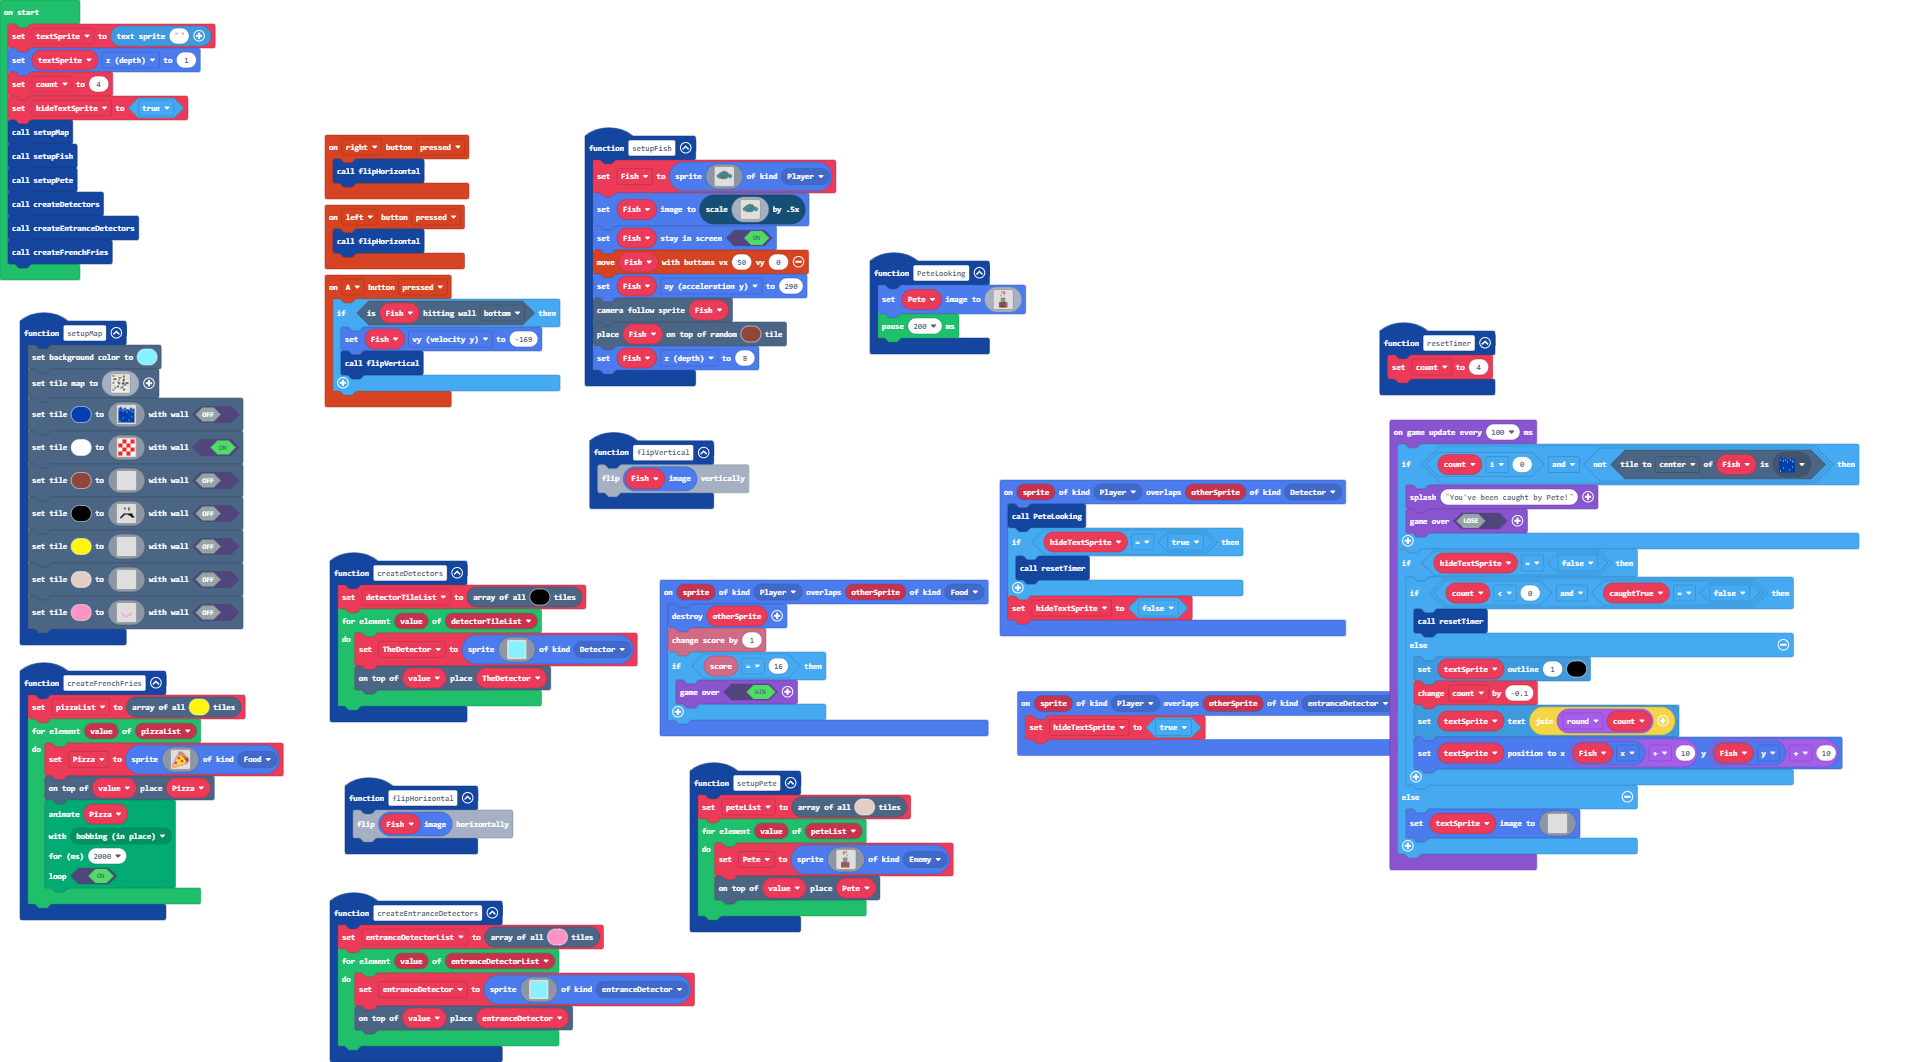
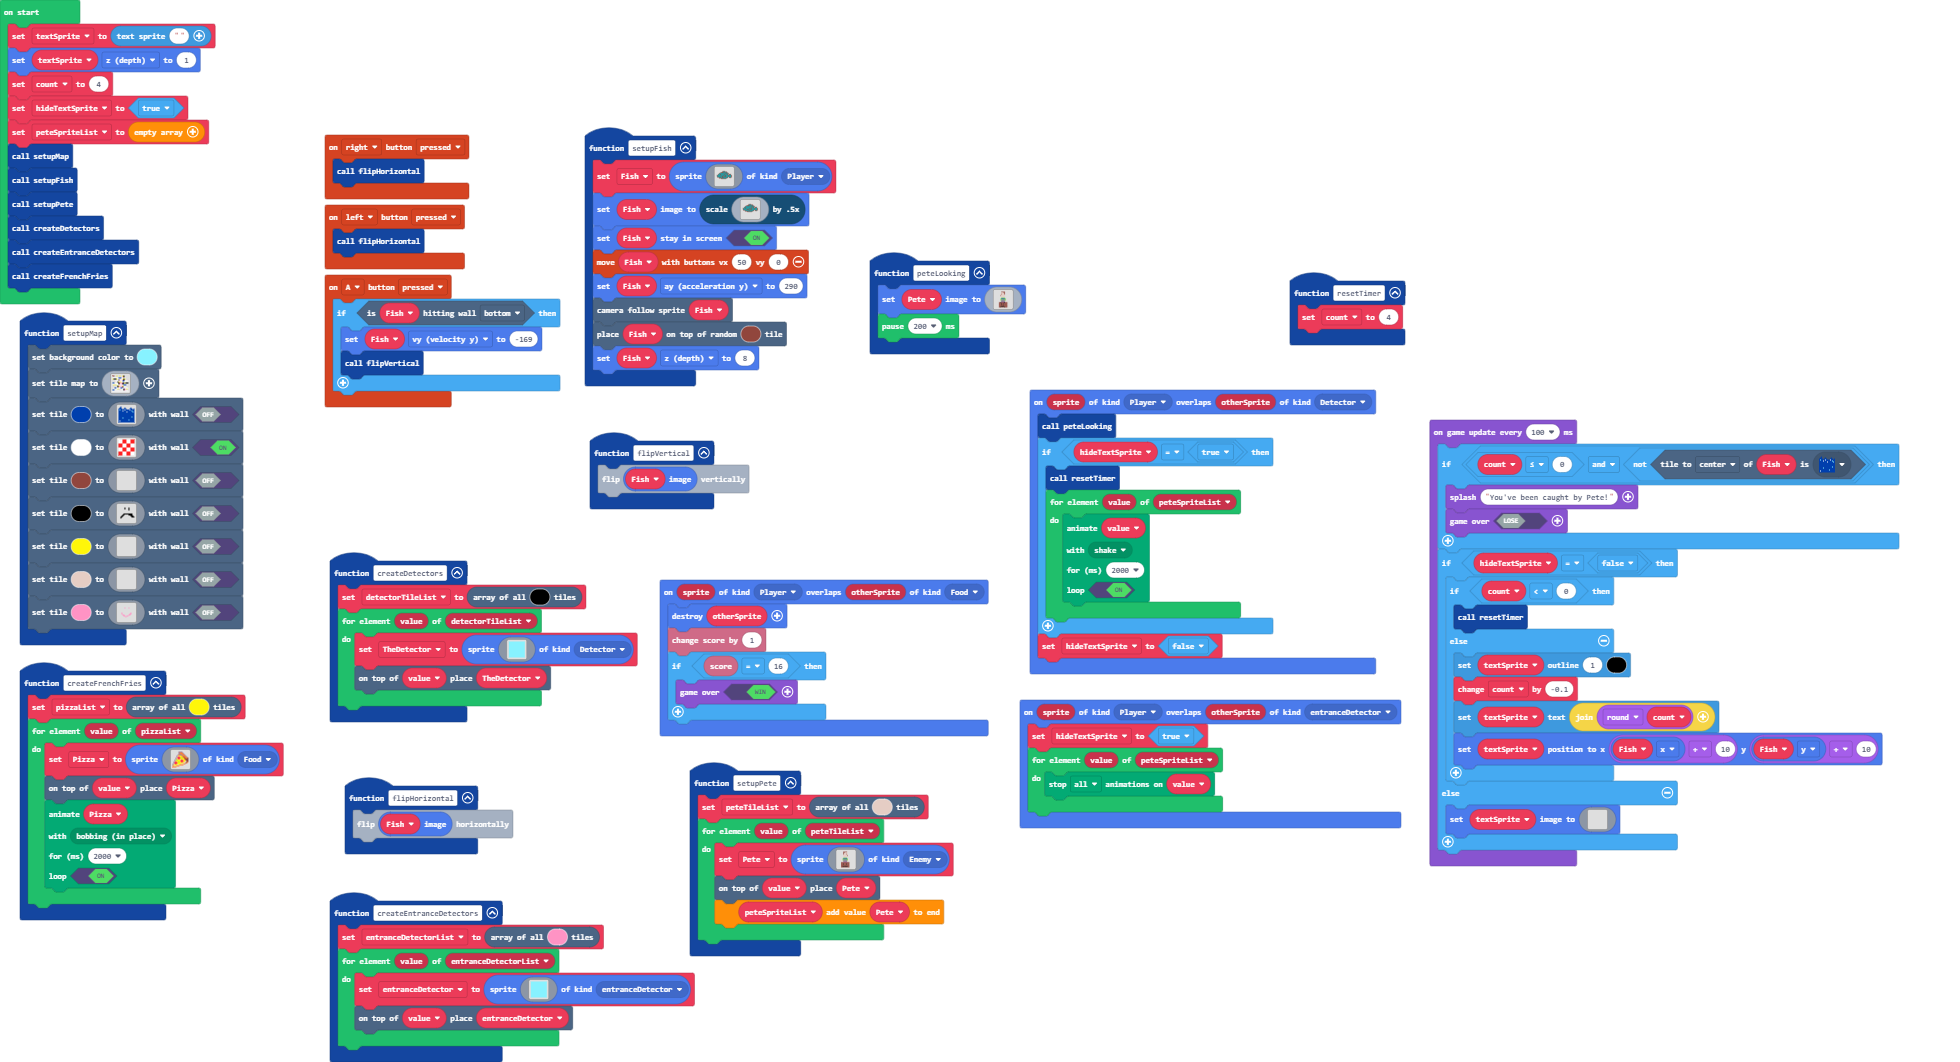
I think it's not completely broken now

diff --git a/main.ts b/main.ts
@@ -26,32 +26,6 @@ function createDetectors () {
         scene.place(value, TheDetector)
     }
 }
-function PeteLooking () {
-    Pete.setImage(img`
-        ......eeeee.....
-        ......dddee.....
-        ......dddde.....
-        .....deddde.....
-        .....dddddd.....
-        .....eddddd.....
-        ......ddddd.....
-        .......ddd......
-        ......77777.....
-        .....7888887....
-        .....7777777....
-        .....7aaaaa7....
-        .....d77777d....
-        ......aaaaa.....
-        ...eefeeeefeee..
-        ...eeefeefeeee..
-        ...eeeeeeeeeee..
-        ...eeefeefeeee..
-        ...eeeeeeeeeee..
-        ...eeeffffeeee..
-        ...eefeeeefeee..
-        `)
-    pause(200)
-}
 controller.A.onEvent(ControllerButtonEvent.Pressed, function () {
     if (Fish.isHittingTile(CollisionDirection.Bottom)) {
         Fish.vy = -169
@@ -63,10 +37,13 @@ controller.left.onEvent(ControllerButtonEvent.Pressed, function () {
 })
 sprites.onOverlap(SpriteKind.Player, SpriteKind.entranceDetector, function (sprite, otherSprite) {
     hideTextSprite = true
+    for (let value of peteSpriteList) {
+        animation.stopAnimation(animation.AnimationTypes.All, value)
+    }
 })
 function setupPete () {
-    peteList = scene.getTilesByType(13)
-    for (let value of peteList) {
+    peteTileList = scene.getTilesByType(13)
+    for (let value of peteTileList) {
         Pete = sprites.create(img`
             .....eeeee......
             .....eeddd......
@@ -84,13 +61,14 @@ function setupPete () {
             .....aaaaa......
             ..eeeeeeeeeee...
             ..eeeeeeeeeee...
+            ..eeefeeefeee...
             ..eeeeeeeeeee...
             ..eeeeeeeeeee...
-            ..eeeeeeeeeee...
-            ..eeeeeeeeeee...
+            ..eefffffffee...
             ..eeeeeeeeeee...
             `, SpriteKind.Enemy)
         scene.place(value, Pete)
+        peteSpriteList.push(Pete)
     }
 }
 controller.right.onEvent(ControllerButtonEvent.Pressed, function () {
@@ -270,9 +248,17 @@ function createEntranceDetectors () {
     }
 }
 sprites.onOverlap(SpriteKind.Player, SpriteKind.Detector, function (sprite, otherSprite) {
-    PeteLooking()
+    peteLooking()
     if (hideTextSprite == true) {
         resetTimer()
+        for (let value of peteSpriteList) {
+            animation.runMovementAnimation(
+            value,
+            animation.animationPresets(animation.shake),
+            2000,
+            true
+            )
+        }
     }
     hideTextSprite = false
 })
@@ -362,21 +348,49 @@ function setupFish () {
 function resetTimer () {
     count = 4
 }
+function peteLooking () {
+    Pete.setImage(img`
+        ......eeeee.....
+        ......dddee.....
+        ......dddde.....
+        .....deddde.....
+        .....dddddd.....
+        .....eddddd.....
+        ......ddddd.....
+        .......ddd......
+        ......77777.....
+        .....7888887....
+        .....7777777....
+        .....7aaaaa7....
+        .....d77777d....
+        ......aaaaa.....
+        ...eefeeeefeee..
+        ...eeefeefeeee..
+        ...eeeeeeeeeee..
+        ...eeefeefeeee..
+        ...eeeeeeeeeee..
+        ...eeeffffeeee..
+        ...eefeeeefeee..
+        `)
+    pause(200)
+}
 let entranceDetector: Sprite = null
 let entranceDetectorList: tiles.Tile[] = []
 let Pizza: Sprite = null
 let pizzaList: tiles.Tile[] = []
-let peteList: tiles.Tile[] = []
-let Fish: Sprite = null
 let Pete: Sprite = null
+let peteTileList: tiles.Tile[] = []
+let Fish: Sprite = null
 let TheDetector: Sprite = null
 let detectorTileList: tiles.Tile[] = []
+let peteSpriteList: Sprite[] = []
 let hideTextSprite = false
 let count = 0
 let textSprite = textsprite.create("")
 textSprite.z = 1
 count = 4
 hideTextSprite = true
+peteSpriteList = []
 setupMap()
 setupFish()
 setupPete()
@@ -389,8 +403,7 @@ game.onUpdateInterval(100, function () {
         game.over(false)
     }
     if (hideTextSprite == false) {
-        let caughtTrue = false
-        if (count < 0 && caughtTrue == false) {
+        if (count < 0) {
             resetTimer()
         } else {
             textSprite.setOutline(1, 15)
